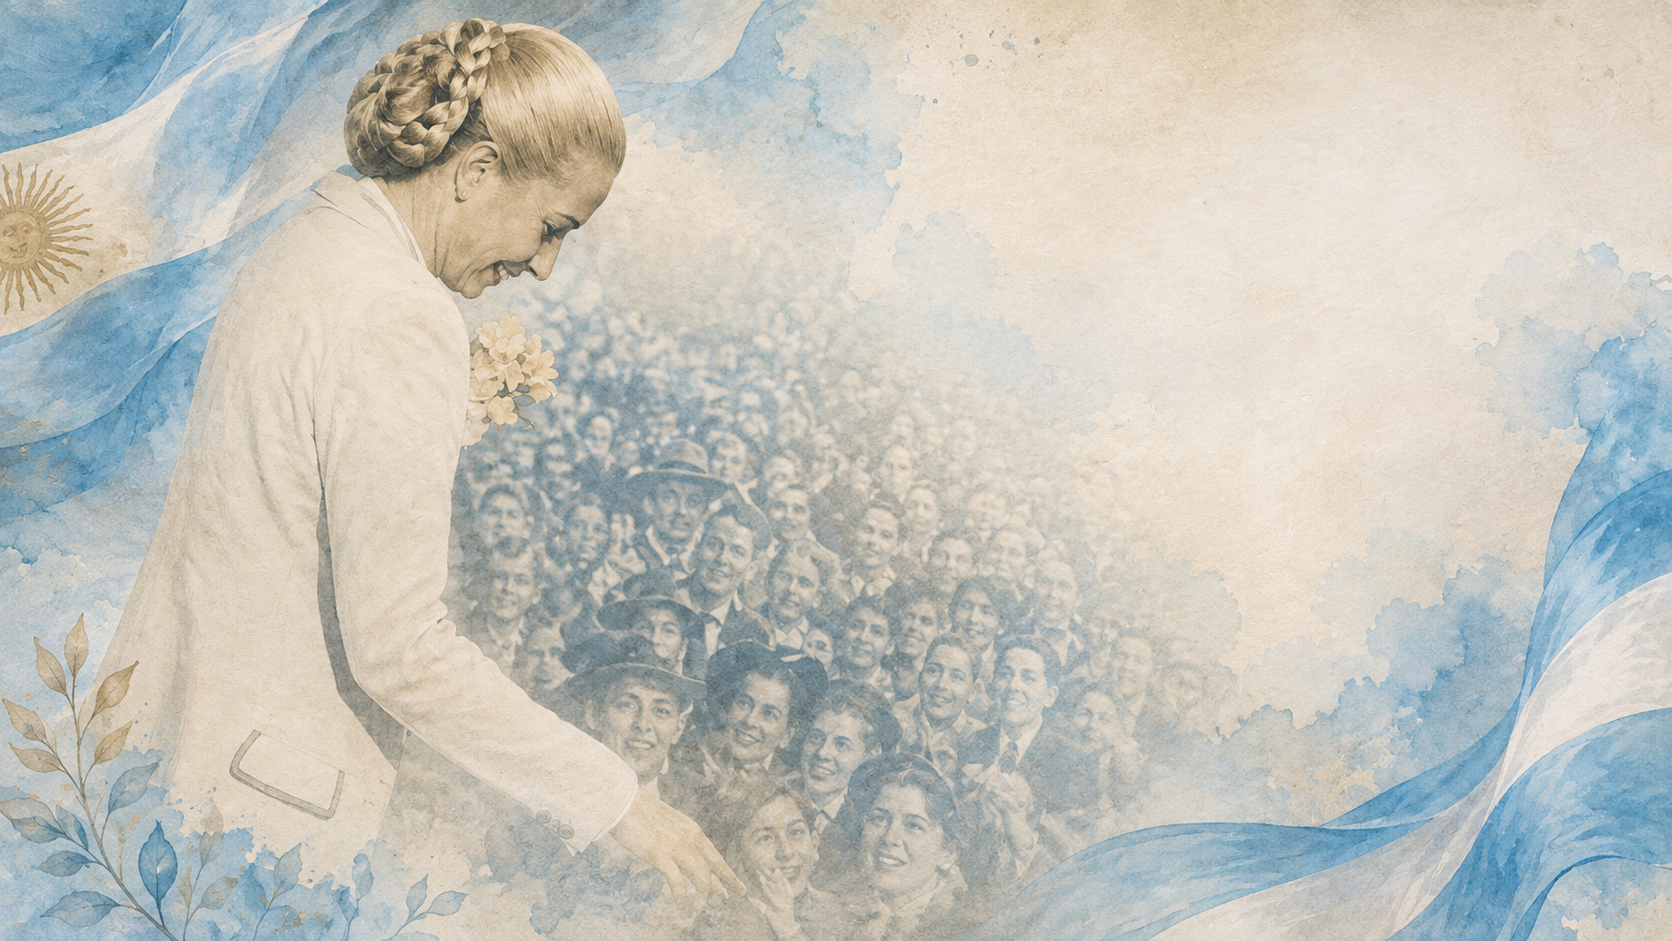
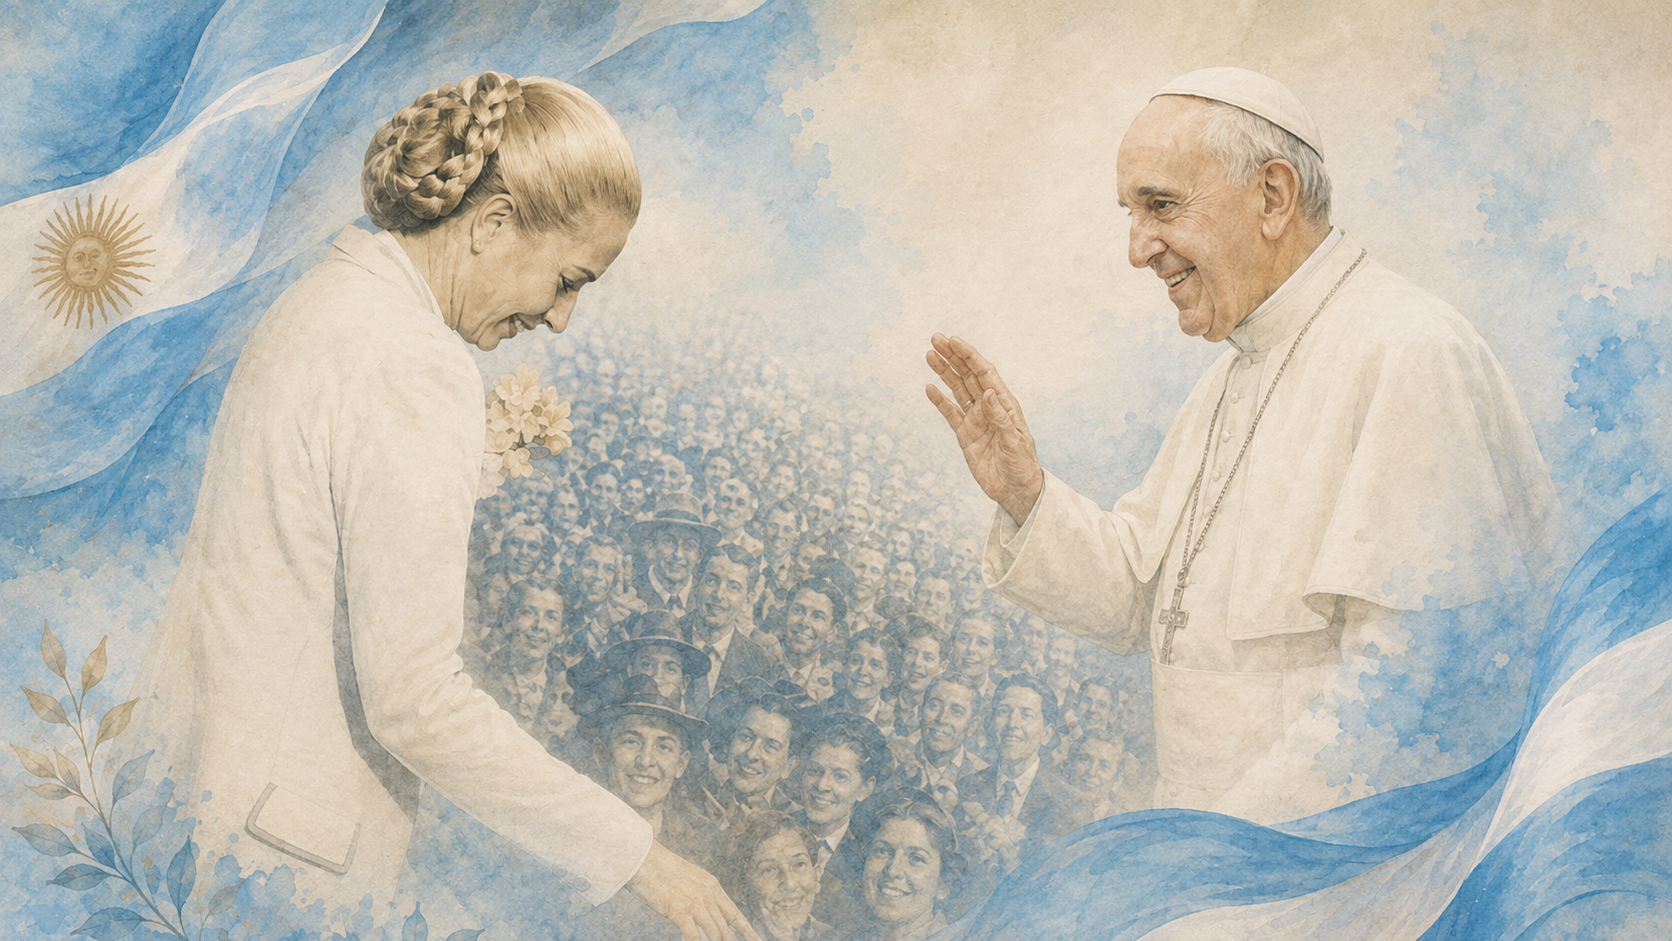
Replace background with image including Pope Francis

diff --git a/css/styles.v2.css b/css/styles.v2.css
@@ -1888,7 +1888,7 @@ h4, h5, h6, label, button, input { font-family: 'Inter', sans-serif; }
   position: fixed;
   top: 0; left: 0;
   width: 100vw; height: 100vh;
-  background-image: linear-gradient(135deg, rgba(28, 102, 216, 0.4), rgba(0, 73, 190, 0.6)), url('../assets/img/fondo-evita.jpg');
+  background-image: linear-gradient(135deg, rgba(28, 102, 216, 0.4), rgba(0, 73, 190, 0.6)), url('../assets/img/fondo-evita.jpg?v=2');
     background-size: cover;
     background-position: 35% center;
     background-repeat: no-repeat;

diff --git a/index.html b/index.html
@@ -15,7 +15,7 @@
   <meta http-equiv="Expires" content="0" />
 
   <title>JusSocial — Plataforma Nacional de Justicia Social</title>
-  <link rel="stylesheet" href="css/styles.v2.css?v=52.0" />
+  <link rel="stylesheet" href="css/styles.v2.css?v=53.0" />
 <script>
   window.showScreenById = function(id) {
     var screens = document.querySelectorAll('section.screen');
